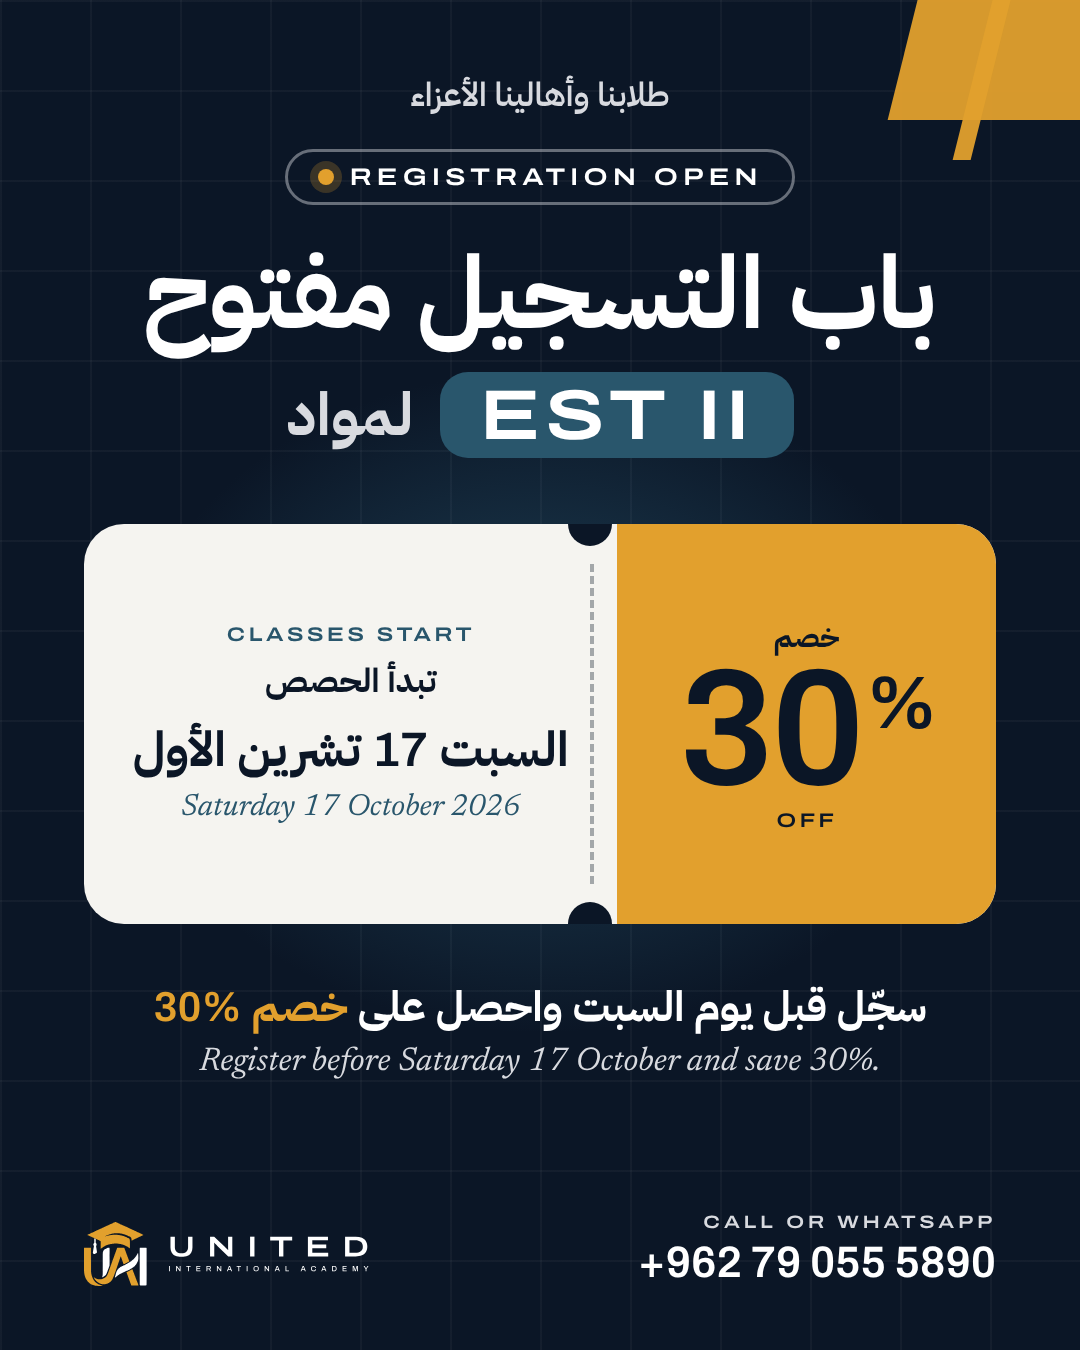
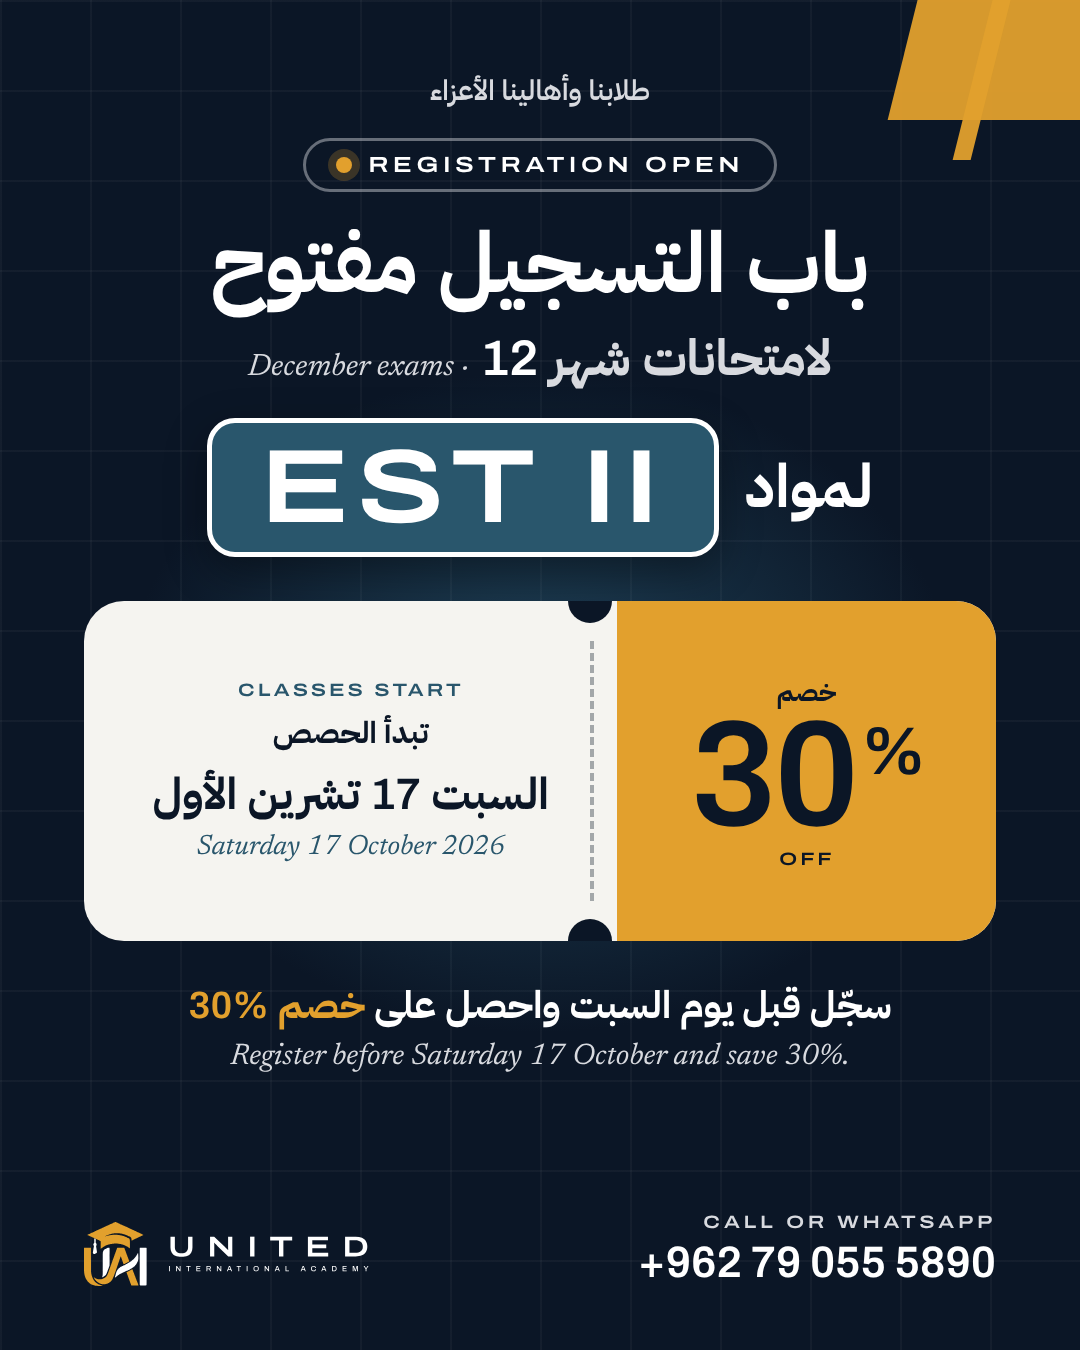
Lens: EST II registration post - December exams line, clearer EST II
Claude-Session: https://claude.ai/code/session_013Nk38vjPosMKdibboCdVbm

Changed region(s): [[0.0611, 0.0622, 0.9472, 0.6533], [0.0917, 0.6533, 0.9167, 0.8089], [0.0611, 0.6533, 0.0917, 0.6844]]

diff --git a/Company/01_Tools/brand_assets/est_registration.js b/Company/01_Tools/brand_assets/est_registration.js
@@ -52,19 +52,20 @@ const ticket = (h, s) => `<div class="ticket" style="height:${h}px">
     <div class="k" style="font-size:${18 * s}px;color:#0B1626;margin-top:${10 * s}px">OFF</div>
   </div></div>`;
 const body = (st) => {
-  const s = st ? 1.22 : 1.1;
+  const s = st ? 1.16 : 1;
   return `<div class="glow"></div><div class="grid"></div>
   <div class="stripe" style="left:${st ? 930 : 940}px;top:-300px;height:${st ? 520 : 420}px;bottom:auto"></div>
   <div class="stripe" style="left:${st ? 1000 : 1010}px;width:18px;top:-300px;height:${st ? 560 : 460}px;bottom:auto"></div>
   <div class="wrap" style="padding:${st ? '270px 70px 330px' : '70px 84px 64px'}">
-    <div class="ar" style="font-weight:600;font-size:${30 * s}px;color:#D8DADF">طلابنا وأهالينا الأعزاء</div>
+    <div class="ar" style="font-weight:600;font-size:${28 * s}px;color:#D8DADF">طلابنا وأهالينا الأعزاء</div>
     <div class="open" style="margin-top:${26 * s}px"><i></i><span class="lbl" style="font-size:${22 * s}px;color:#fff">REGISTRATION OPEN</span></div>
-    <div class="ar" style="font-weight:700;font-size:${92 * s}px;line-height:1.25;margin-top:${24 * s}px">باب التسجيل مفتوح</div>
-    <div style="display:flex;align-items:center;gap:${24 * s}px;margin-top:${12 * s}px">
-      <span class="ar" style="font-weight:700;font-size:${54 * s}px;color:#D8DADF">لمواد</span>
-      <span class="pill" style="font-size:${64 * s}px;padding:${4 * s}px ${36 * s}px;color:#fff">EST II</span></div>
-    <div style="width:100%;margin-top:${st ? 50 : 64}px">${ticket(st ? 430 : 400, s)}</div>
-    <div class="ar" style="font-weight:700;font-size:${38 * s}px;margin-top:${st ? 50 : 52}px">سجّل قبل يوم السبت واحصل على <span style="color:#E2A02D">خصم <span dir="ltr" style="unicode-bidi:isolate;font-family:'A'">30%</span></span></div>
+    <div class="ar" style="font-weight:700;font-size:${84 * s}px;line-height:1.2;margin-top:${22 * s}px">باب التسجيل مفتوح</div>
+    <div class="ar" style="font-weight:700;font-size:${50 * s}px;color:#D8DADF;margin-top:${6 * s}px">لامتحانات شهر <span dir="ltr" style="unicode-bidi:isolate;font-family:'A';color:#fff">12</span> <span style="font-family:'N';font-style:italic;font-weight:400;font-size:.62em;color:#D8DADF">· December exams</span></div>
+    <div dir="rtl" style="display:flex;align-items:center;gap:${26 * s}px;margin-top:${22 * s}px">
+      <span class="ar" style="font-weight:700;font-size:${60 * s}px">لمواد</span>
+      <span class="pill" dir="ltr" style="font-size:${104 * s}px;line-height:1.05;padding:${10 * s}px ${48 * s}px;color:#fff;border:${5 * s}px solid #fff;box-shadow:0 ${14 * s}px ${40 * s}px rgba(0,0,0,.35)">EST II</span></div>
+    <div style="width:100%;margin-top:${st ? 50 : 44}px">${ticket(st ? 400 : 340, s)}</div>
+    <div class="ar" style="font-weight:700;font-size:${38 * s}px;margin-top:${st ? 44 : 36}px">سجّل قبل يوم السبت واحصل على <span style="color:#E2A02D">خصم <span dir="ltr" style="unicode-bidi:isolate;font-family:'A'">30%</span></span></div>
     <div style="font-family:'N';font-style:italic;font-size:${30 * s}px;color:#D8DADF;margin-top:${8 * s}px">Register before Saturday 17 October and save 30%.</div>
     <div style="flex:1"></div>
     ${st ? `<div style="height:76px;margin-top:50px">${LOGO}</div><div class="lbl" style="font-size:22px;margin-top:34px">CALL OR WHATSAPP</div><div class="ph" style="font-size:56px;margin-top:6px">+962 79 055 5890</div>`

diff --git a/Company/00_Activity_Logs/lens.md b/Company/00_Activity_Logs/lens.md
@@ -60,3 +60,4 @@
 - Done (10 Oct): EST II exam-day Story (14 s, 1080x1920, motion + music/SFX, no VO) `03_Assets/Posts/2026-10_EST_exam_day_story/`; generator `est_story.html` + cues. Built with the uia-video-studio skill. −16.1 LUFS. Needs Fahed's OK before posting.
 - Done (10 Oct): Digital SAT course schedule post + story (light Paper layout with week strip, distinct from the dark AP schedule) `03_Assets/Posts/2026-10_SAT_schedule/`, generator `sat_schedule.js`, AR+EN caption. Assumed 'thusday' = Tuesday; no start date/duration/mode shown (not given).
 - Done (10 Oct): EST II registration-open + 30% early offer: post + story/WhatsApp status (coupon layout), AR+EN caption, WhatsApp message `03_Assets/Posts/2026-10_EST_registration/`, generator `est_registration.js`. Start date computed as Sat 17 Oct 2026. Discount is a pricing item: Fahed to confirm management approval + terms before posting.
+- Update (10 Oct): EST II registration post: added 'لامتحانات شهر 12 · December exams', 'لمواد' now before EST II, EST II badge enlarged; captions updated.
